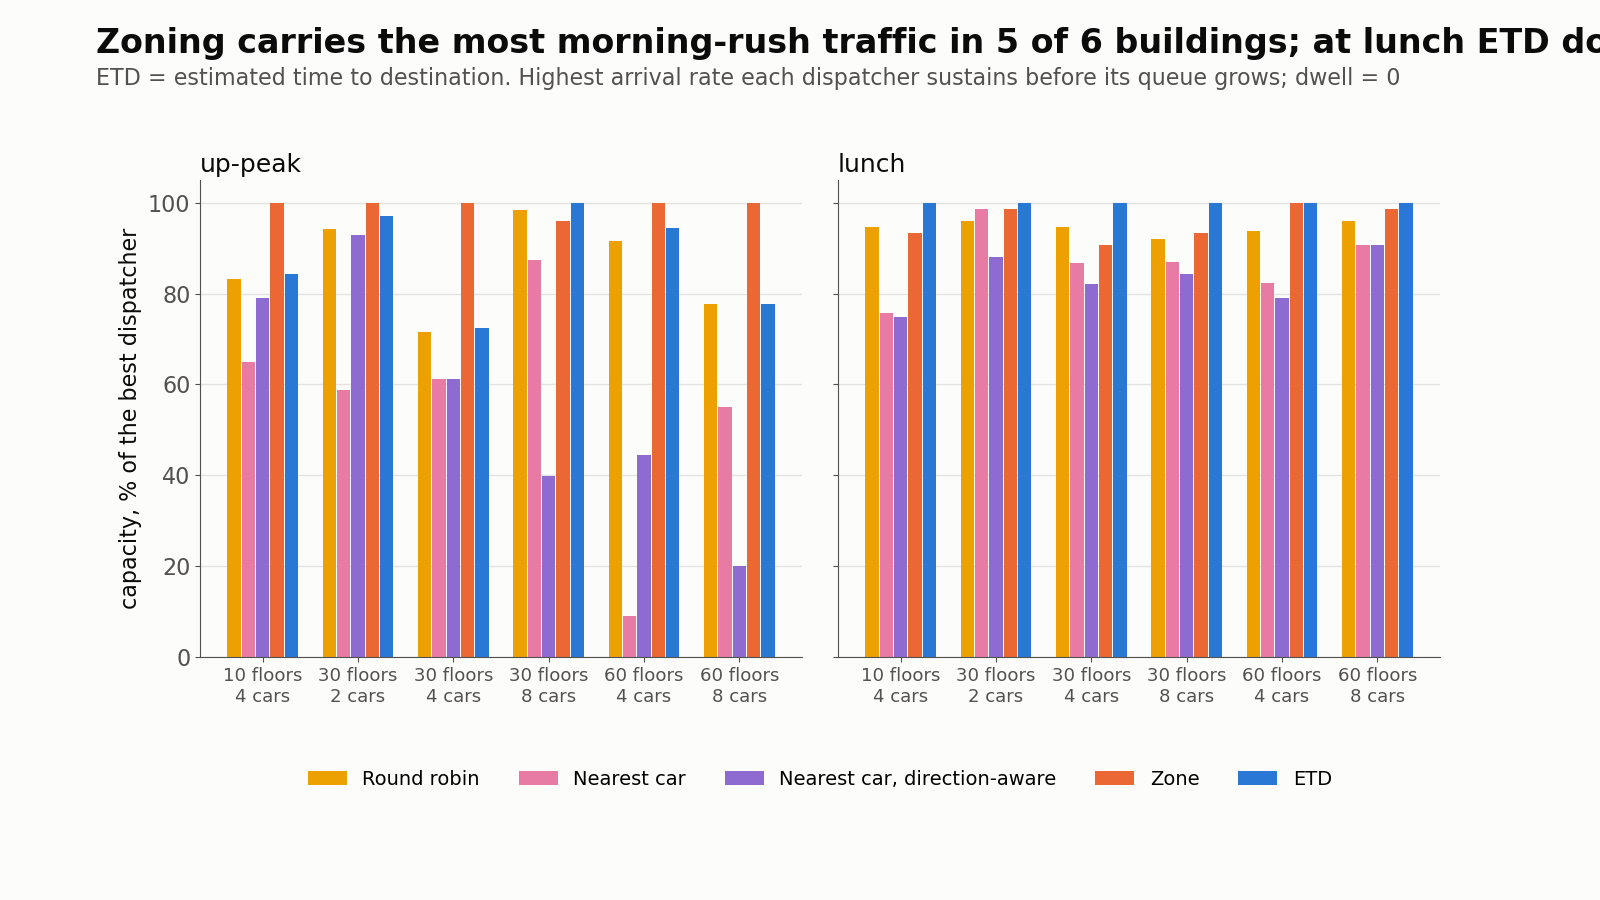
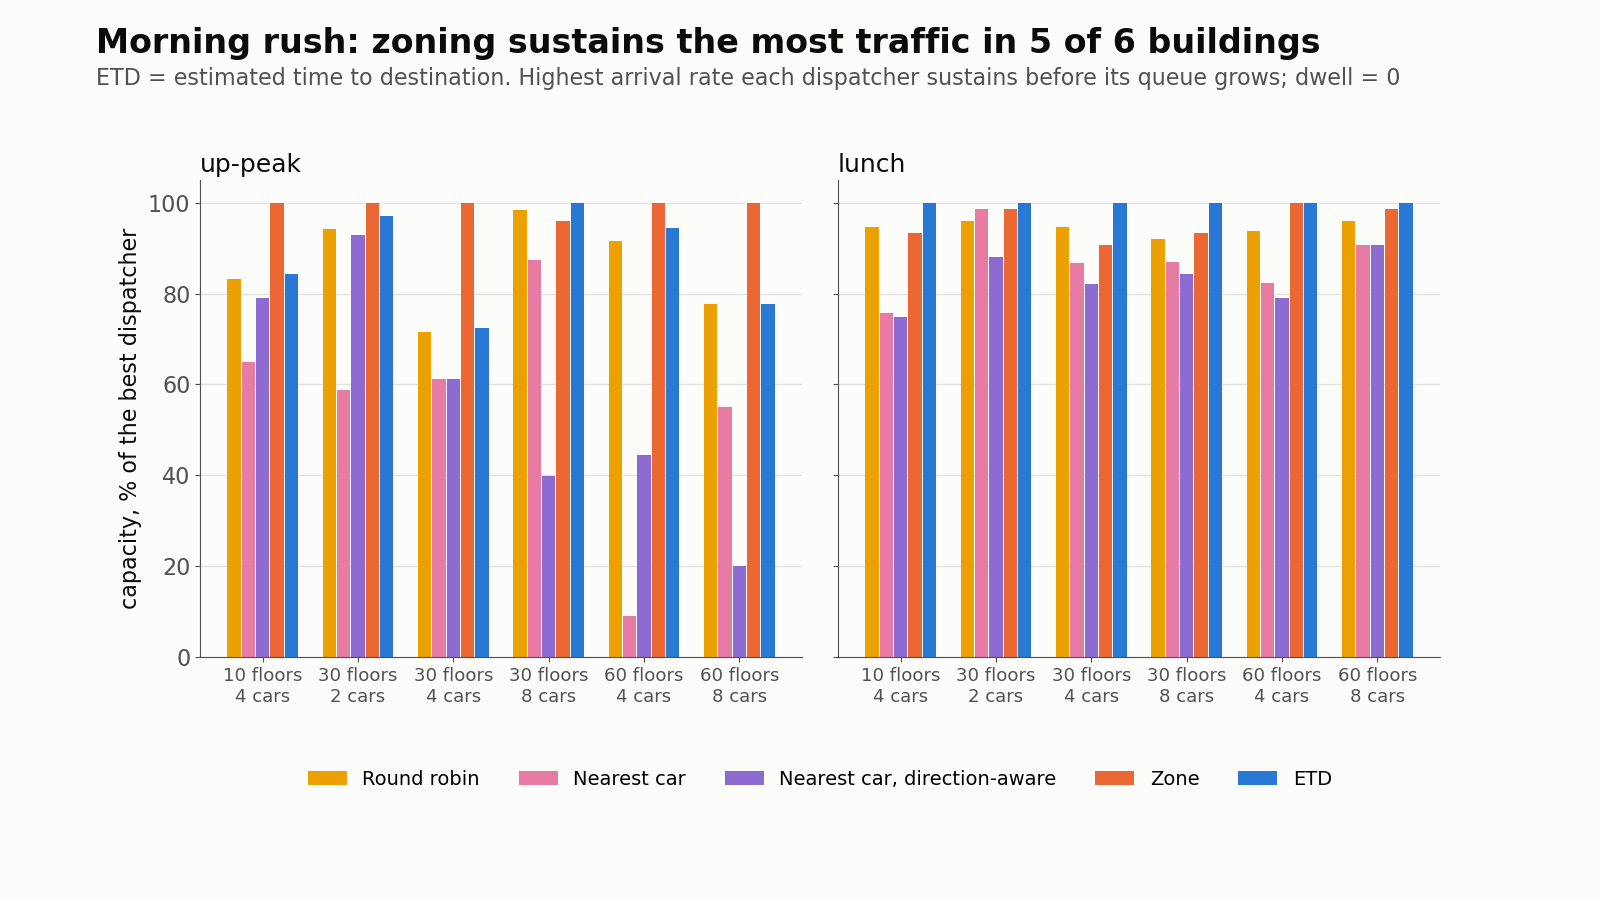
Correct README wording; clearer chart title and code

Changed region(s): [[0.0625, 0.0311, 1.0, 0.0622]]

diff --git a/elevator_sim/engine.py b/elevator_sim/engine.py
@@ -56,7 +56,8 @@ class Result:
 class Simulation:
     def __init__(self, config: Config, requests: Iterable[Request], dispatcher: Dispatcher):
         max_wait = config.max_wait if config.max_wait is not None else 3 * config.floors
-        self.cars = [Car(i, config.capacity, config.start_floor, config.dwell, max_wait, config.express.get(i))
+        self.cars = [Car(i, config.capacity, floor=config.start_floor, dwell=config.dwell, max_wait=max_wait,
+                         serves=config.express.get(i))
                      for i in range(config.num_cars)]
         requests = list(requests)
         self._check(requests, config)

diff --git a/scripts/charts.py b/scripts/charts.py
@@ -154,7 +154,7 @@ def capacity():
         ax.grid(axis="x", visible=False)
     axes[0].set(ylabel="capacity, % of the best dispatcher", ylim=(0, 105))
     axes[0].legend(loc="upper center", bbox_to_anchor=(1.03, -0.2), ncol=5, fontsize=14)
-    save(fig, "capacity.png", "Zoning carries the most morning-rush traffic in 5 of 6 buildings; at lunch ETD does",
+    save(fig, "capacity.png", "Morning rush: zoning sustains the most traffic in 5 of 6 buildings",
          ETD_NOTE + "Highest arrival rate each dispatcher sustains before its queue grows; dwell = 0")
 
 

diff --git a/elevator_sim/dispatch.py b/elevator_sim/dispatch.py
@@ -69,7 +69,8 @@ class ZoneDispatcher:
     """Baseline: split the floors above the lobby into one band per car.
 
     A trip belongs to the band of its non-lobby end: the upper floor for lobby
-    trips, the pickup floor otherwise.
+    trips, the pickup floor otherwise. Bands are split across the cars that can
+    serve the trip, so with express cars the bands differ per trip.
     """
 
     def __init__(self, floors: int):

diff --git a/README.md b/README.md
@@ -2,7 +2,7 @@
 
 A discrete-time simulation of a destination-dispatch elevator system. Each passenger is assigned to a car when they call, and the assignment never changes. Time moves one floor per tick, and the simulation only sees requests whose time has come.
 
-The default scheduler is ETD (estimated time to destination). In my simulations it gives the lowest average trip time of the five dispatchers I tried in every traffic pattern, except a heavy morning rush where stops take time or the building is near capacity.
+Each new passenger is given the car that adds the least total trip time (ETD, estimated time to destination). It was the fastest of the five dispatchers I tested, except in a heavy morning rush, where zoning carries more people.
 
 Python 3.10+, standard library only. Tests use pytest; the charts script uses matplotlib.
 
@@ -42,9 +42,11 @@ Two decisions: **dispatch** picks a car for each new passenger, once (`dispatch.
 
 Each tick (`engine.py`): assign new requests → at each car, riders get off, the car picks a direction, and waiting passengers going that way get on → log positions → move. Only `feed.py` holds future requests, so nothing can look ahead.
 
-**ETD.** For each car, simulate its future with and without the new passenger, using the engine's own per-car rules (`rules.py`). The difference is the newcomer's trip time plus the delay they add for everyone already assigned to that car. Pick the smallest. Each passenger costs `total_time²`, so one very long trip counts more than several short ones. On the brief's example, round robin makes passenger3 wait 71 ticks; ETD, 19.
+**ETD.** For each car, simulate its future with and without the new passenger, using the engine's own per-car rules (`rules.py`). The difference is the newcomer's trip time plus the delay they add for everyone already assigned to that car. Pick the smallest. Each passenger costs `total_time^p` (default p = 2), so one very long trip counts more than several short ones.
 
-**LOOK routing.** Keep going while there are pickups ahead, otherwise turn around. Riders aboard all share one direction, so they decide it.
+On the brief's three-passenger example, round robin and plain nearest car make passenger3 wait 71 ticks, because they give them the car heading up to floor 51. ETD, direction-aware nearest car and zoning all give 19. An example that small can't separate the better dispatchers; the benchmarks below do.
+
+**LOOK routing** (the classic elevator sweep). Keep going while there are pickups ahead, otherwise turn around. Passengers only board a car going their way, so once anyone is aboard, the direction is fixed.
 
 **No one waits forever.** LOOK with a capacity limit can pass the same floor indefinitely if the car keeps filling up first (there's a test for this). After `max_wait` ticks (default 3 × floors), a car's oldest waiting passenger becomes its target and gets a reserved seat. Nobody is skipped forever, though under overload several overdue passengers queue behind each other.
 
@@ -56,7 +58,7 @@ Three findings:
 2. **In a heavy morning rush, zoning carries more people.** ETD's per-passenger choices add stops. Express cars close the gap.
 3. **The cost exponent trades average speed for worst-case speed**, which is the fairness/efficiency dial the brief asks about.
 
-Setup: 30 floors, 4 cars, capacity 10; four office traffic patterns with random arrivals; 10 random days × 1200 ticks per setting, the same days for every dispatcher.
+Setup: 30 floors, 4 cars, capacity 10; 10 random days × 1200 ticks per setting, the same days for every dispatcher. Four office traffic patterns with random arrivals: up-peak (morning, mostly lobby → up), down-peak (evening, mostly → lobby), lunch (both ways through the lobby) and interfloor (between upper floors). "Free stops" means a stop takes no extra time (dwell 0); "one-tick stops" means dwell 1.
 
 **1. ETD is fastest.** Mean total time in ticks at 0.8 passengers per tick, free stops:
 
@@ -71,17 +73,17 @@ ETD is 15-33% faster than the best alternative in each row. Direction-aware near
 
 ![dispatchers](docs/charts/algorithms.png)
 
-The same holds in other buildings (10-60 floors, 2-8 cars). A fixed arrival rate can't be compared across buildings, so I first measured each building's *handling capacity*: the highest arrival rate before the number of people inside keeps growing. At half of that, ETD is fastest in all 24 cases, by 5-29%.
+The same holds in other buildings (10-60 floors, 2-8 cars). A fixed arrival rate can't be compared across buildings, so I first measured each building's *handling capacity*: the highest arrival rate before the number of people inside keeps growing. At half of that, ETD is fastest in all 24 cases (6 buildings × up-peak and lunch × free and one-tick stops), by 5-29%. In two cases, both with 2 cars where there is little choice to make, the margin is within the confidence interval.
 
-**2. The morning rush.** When stops cost a tick, ETD's queue keeps growing in up-peak (mean 85 ticks, against 58 for zoning). ETD puts each lobby passenger wherever is best for them right now, so every car gets a mix of destinations. An ETD car leaving the lobby stops at about 8 floors and climbs to floor 28; a zoned car stops at 4-5 and reaches floor 19. Longer round trips carry fewer people per minute.
+**2. The morning rush.** In up-peak, ETD's queue starts growing at a lower arrival rate than zoning's: 0.88 passengers per tick against 1.21 with free stops. One-tick stops lower that point further, so at 0.8 per tick ETD is already overloaded (mean 85 ticks, against 58 for zoning). ETD sends each lobby passenger to whichever car suits them, so every car gets a mix of destinations. An ETD car leaving the lobby stops at about 8 floors and climbs to floor 28; a zoned car stops at 4-5 and stays below floor 20. Longer round trips carry fewer people per minute.
 
-Making cars 2-3 express to floors 16-30 brings ETD level with zoning (57), but costs 4-5 ticks at lunch. Across building sizes, zoning carries 3-28% more morning-rush traffic than ETD in all but one case. The mechanism is general; the load where it starts depends on my synthetic traffic.
+Making cars 2-3 express to floors 16-30 brings ETD level with zoning (57), but costs 4-5 ticks at lunch. Across building sizes, ETD's morning-rush capacity is 3-28% below zoning's in all but one case. The mechanism is general; the load where it starts depends on my synthetic traffic.
 
 ![overload](docs/charts/overload.png)
 
 ![capacity](docs/charts/capacity.png)
 
-**3. Fairness.** Each passenger costs `total_time^p`. With one-tick stops, going from p = 1 to p = 4 cuts the worst trip by 8-20% and raises the mean by up to 6%. I kept p = 2 as a middle ground.
+**3. Fairness.** Each passenger costs `total_time^p`. With one-tick stops, going from p = 1 to p = 4 cuts the worst trip by 8-20% and raises the mean by up to 6%. With free stops p barely matters. I kept p = 2 as a middle ground.
 
 ![fairness](docs/charts/fairness.png)
 
@@ -93,7 +95,7 @@ Full tables are in `results/`.
 - One tick is one floor. Stops are free by default, because the brief only defines travel time; `--dwell` adds time per stop, and every experiment is also run at dwell 1.
 - In a tick a car drops off, picks a direction, boards, then moves. The log records the floor before the move.
 - Passengers board only their assigned car, only when it's going their way, first come first served.
-- Express cars only get trips where they serve both floors.
+- Express cars only skip floors; they move at the same speed. They only get trips where they serve both floors.
 - Bad input (floor out of range, source = dest, duplicate id, negative time) is rejected up front.
 - Synthetic traffic uses Poisson arrivals and trip mixes I chose (e.g. up-peak: 85% lobby to upper floors, 10% between upper floors, 5% down to the lobby). They are plausible, not measured.
 - The main experiments use one building (30 floors, 4 cars, capacity 10); the building-size comparison covers 10-60 floors and 2-8 cars, all with capacity 10.
